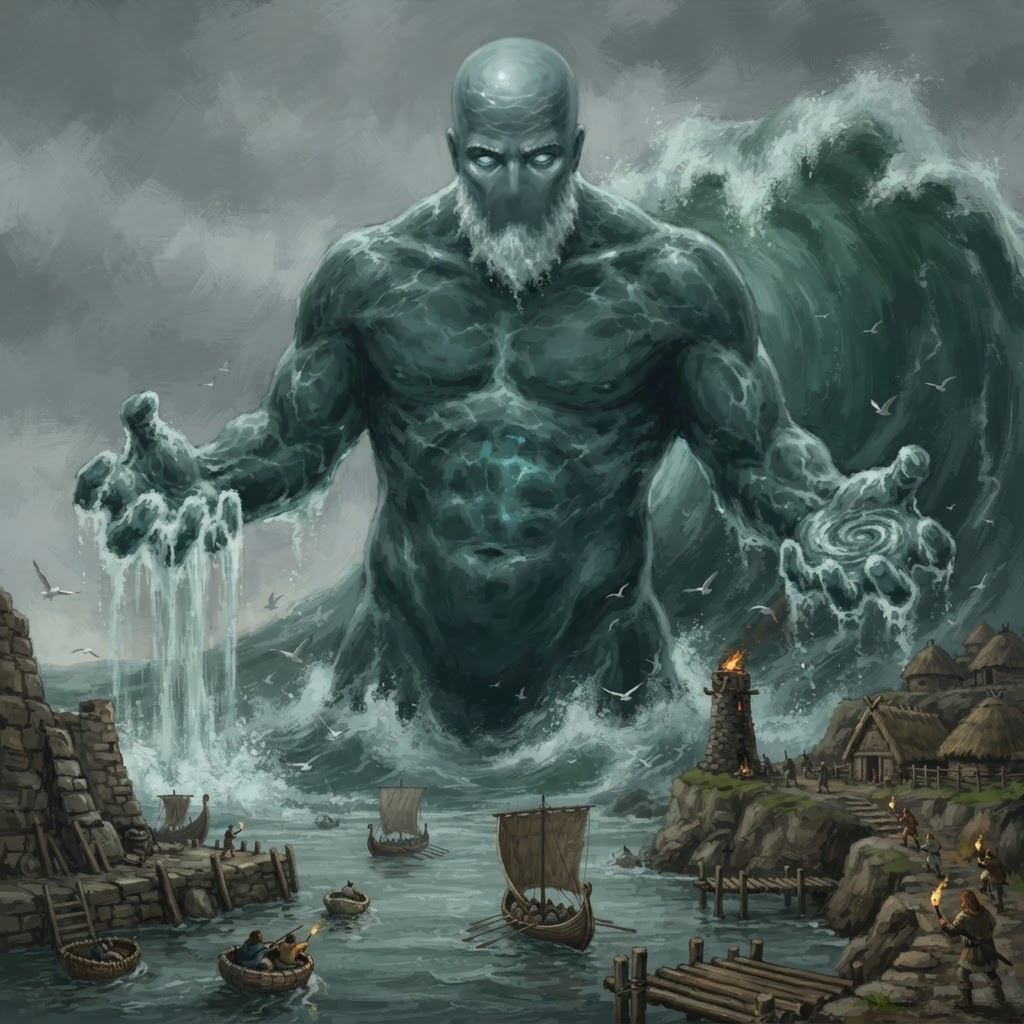
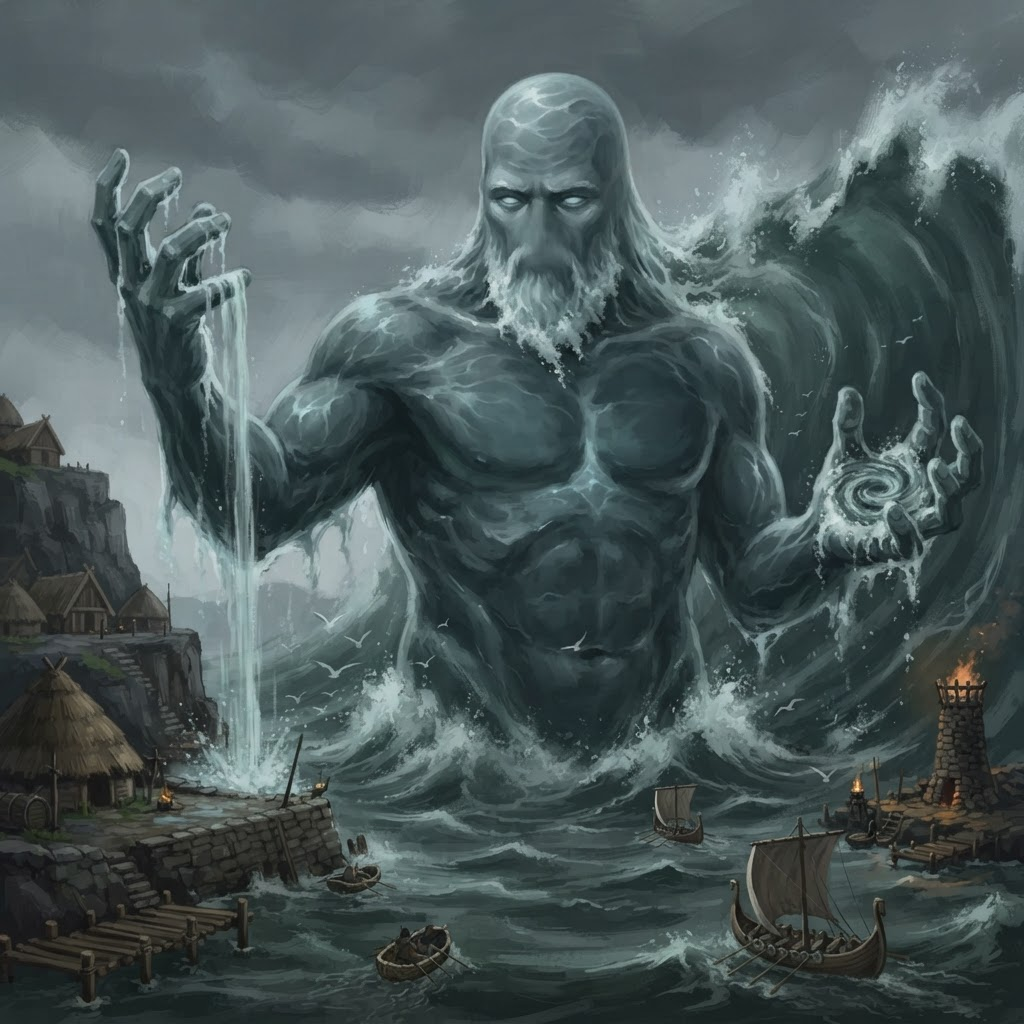
TIDE KING V3 period-fix — Arthurian harbor — sent

diff --git a/docs/ROSTER-PASS-STATUS.md b/docs/ROSTER-PASS-STATUS.md
@@ -156,3 +156,5 @@ Full pass order: 12 god-emergence re-rolls (6 realms x King+Queen) → Luminary 
 - TIDE KING V3 PERIOD-FIX SENT Sept 8 ~12:08 AM ET — same approved design (bare smooth water dome, short foam beard, no mouth, brine waterfall + whirlpool palm), world re-rolled Arthurian: hide coracles + clinker longboats w/ rough square sail, thatched roundhouses, stone FIRE BEACON (no lighthouse), torch-wielding villagers. First attempt bounced at my own eyeball gate (hair-read on the dome) — re-rolled before sending. Awaiting verdict; this REPLACES the approved tide King art (off-period boats) on Keep.
 
 - NOTE: 'Keep the new tide queen' (~12:00 AM) = duplicate verdict, piece already locked at 11:53 — no action. CURRENT QUEUE: Tide King period-fix re-roll (Time-Period Law retroactive fix) -> Bloomweald pair -> Gloambarrow pair -> Ember King V6 fire-god parity re-roll (open from 10:49 PM ruling) -> luminaries -> hollow -> creatures -> world.
+
+- TIDE KING V3 PERIOD-FIX SENT Sept 8 ~12:03 AM ET — retroactive Time-Period Law fix on the approved King: same canon body (pure seawater, bare rippling dome head, foam beard, seam eyes, NO MOUTH, whirlpool palm, brine waterfall), world corrected to Arthurian — hide coracles + clinker longboats w/ rough square sail, thatched roundhouses, rough-stone FIRE BEACON (no lighthouse). First roll bounced twice pre-send (helm-read head, glowing chest emblem) — re-rolled clean. Supersedes his approved art pending re-verdict; Queen V2 already period-true.
